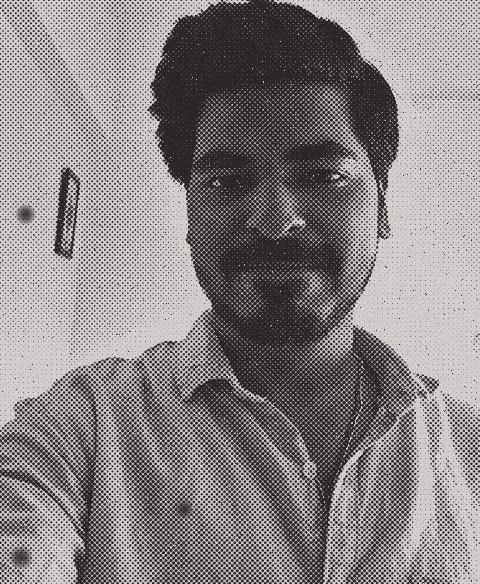
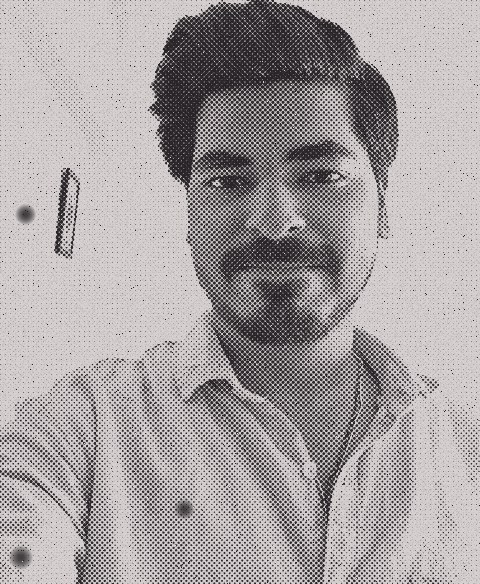
About: the three photos lifted so the face reads (same photocopy look)

diff --git a/index.html b/index.html
@@ -904,7 +904,7 @@
             <div class="abSticky" style="left: 44px; top: 140px; width: 230px; transform: rotate(-3deg)">I started by moving furniture around on a screen. Now I move buttons around on one.</div>
             <!-- big: sitting by the curtain, photocopied -->
             <figure class="abCopy" style="left: 388px; top: 112px; transform: rotate(3deg)">
-              <div class="tear"><img src="assets/about/copy-sit2.jpg" alt="Gandhar in glasses, a passport photo, as a grainy photocopy" width="246" height="271"></div>
+              <div class="tear"><img src="assets/about/copy-sit2.jpg?v=2" alt="Gandhar in glasses, a passport photo, as a grainy photocopy" width="246" height="271"></div>
             </figure>
             <span class="abTape" style="left: 476px; top: 100px; transform: rotate(-5deg)"></span>
             <div class="abNote" style="left: 440px; top: 404px; width: 200px; transform: rotate(-2deg)">that’s me!</div>
@@ -914,12 +914,12 @@
             </div>
             <!-- the mirror selfie, double exposed -->
             <figure class="abCopy" style="left: 470px; top: 520px; transform: rotate(7deg)">
-              <div class="tear"><img src="assets/about/copy-mirror.jpg" alt="Gandhar taking a mirror selfie, double exposed" width="128" height="144"></div>
+              <div class="tear"><img src="assets/about/copy-mirror.jpg?v=2" alt="Gandhar taking a mirror selfie, double exposed" width="128" height="144"></div>
             </figure>
             <span class="abTape" style="left: 490px; top: 510px; width: 64px; transform: rotate(12deg)"></span>
             <!-- small, in the corner: standing in an empty room -->
             <figure class="abCopy" style="left: 486px; top: 768px; transform: rotate(5deg)">
-              <div class="tear"><img src="assets/about/copy-me.jpg" alt="Gandhar smiling, a selfie, as a halftone photocopy" width="142" height="173"></div>
+              <div class="tear"><img src="assets/about/copy-me.jpg?v=2" alt="Gandhar smiling, a selfie, as a halftone photocopy" width="142" height="173"></div>
             </figure>
             <span class="abTape" style="left: 520px; top: 758px; width: 70px; transform: rotate(8deg)"></span>
            <!-- the last line, just written on the page -->
